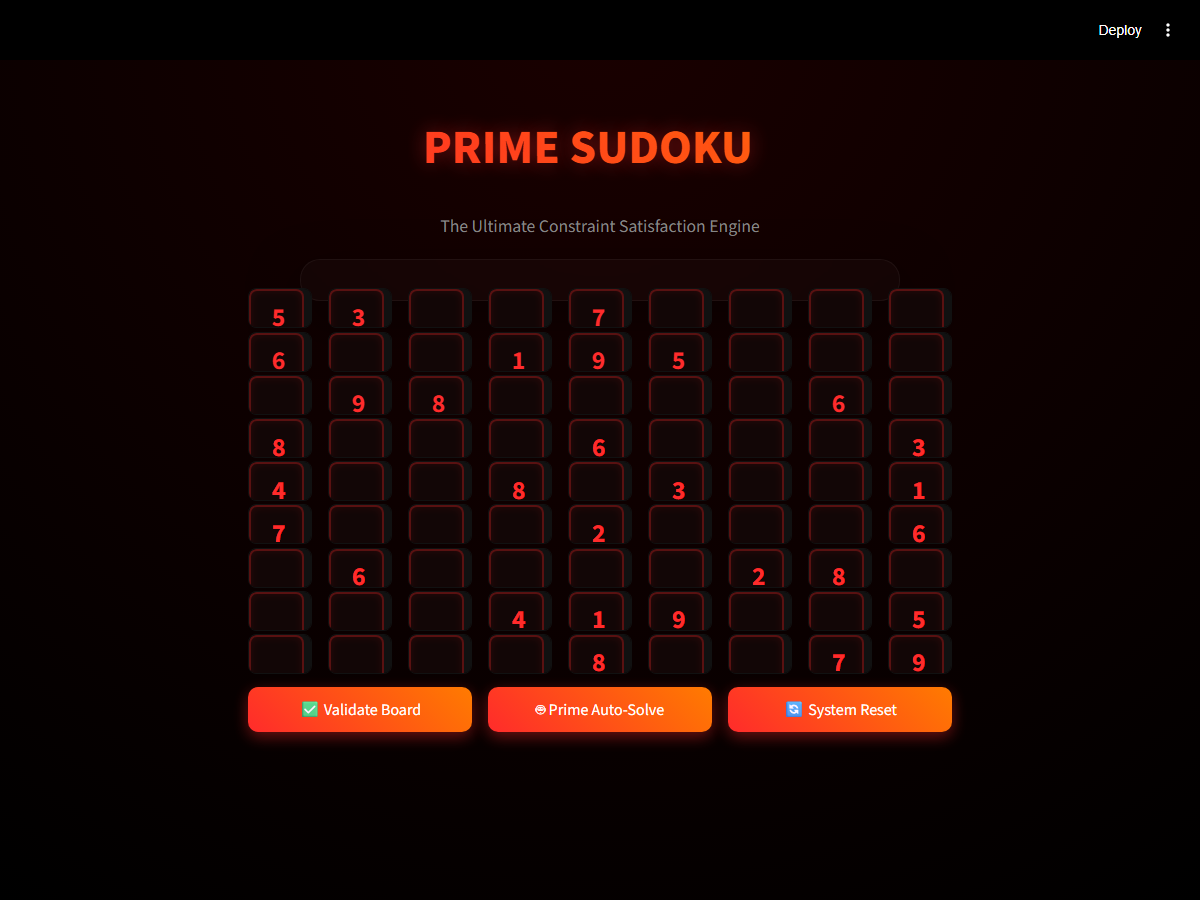
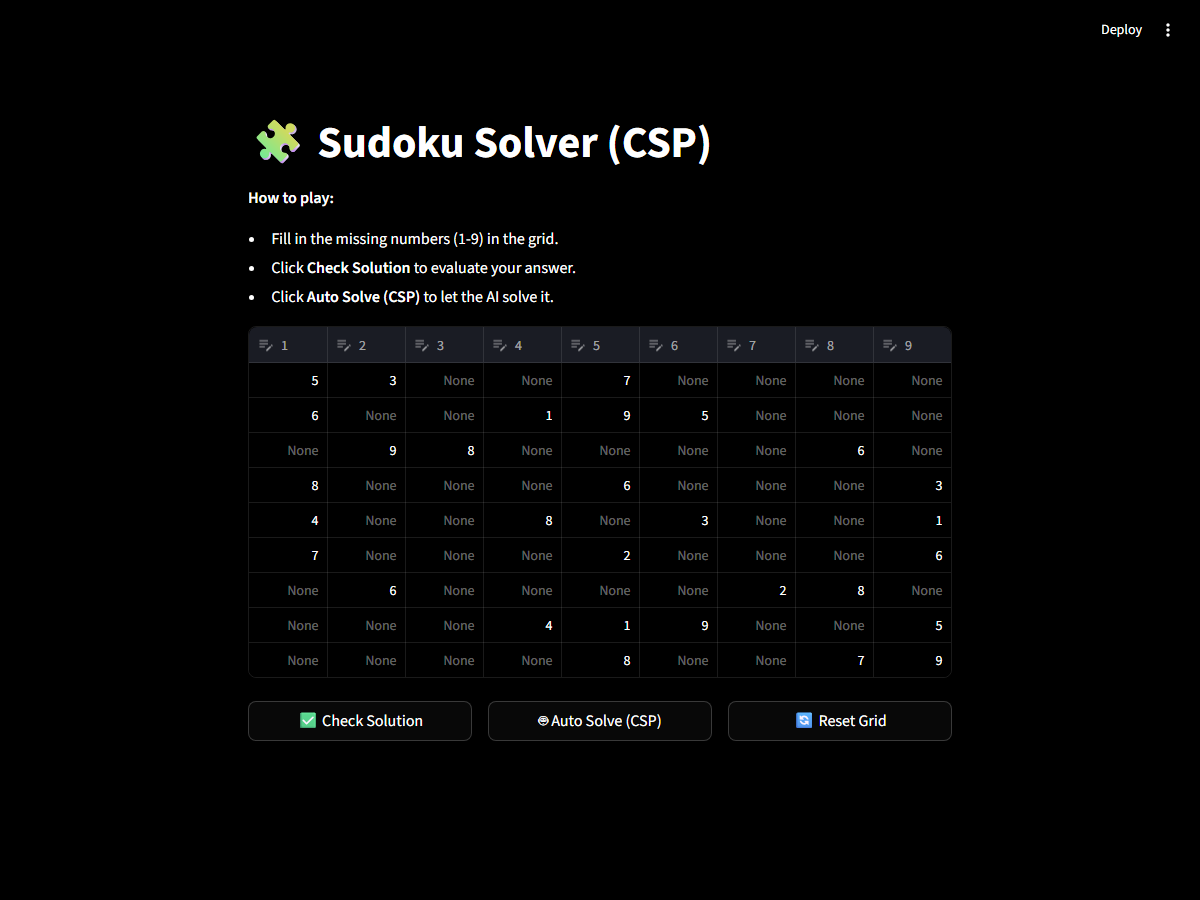
Revert Sudoku UI to simplified data editor format

diff --git a/sudoku.py b/sudoku.py
@@ -3,13 +3,10 @@ import pandas as pd
 import copy
 
 def is_valid(grid, r, c, k):
-    # Check row
     for i in range(9):
         if grid[r][i] == k: return False
-    # Check column
     for i in range(9):
         if grid[i][c] == k: return False
-    # Check 3x3 box
     box_r = r // 3 * 3
     box_c = c // 3 * 3
     for i in range(3):
@@ -31,7 +28,6 @@ def solve_sudoku(grid):
     return True
 
 def check_solution(grid):
-    # Check if there are any empty cells
     for r in range(9):
         for c in range(9):
             if grid[r][c] == 0:
@@ -39,187 +35,66 @@ def check_solution(grid):
             if grid[r][c] < 1 or grid[r][c] > 9:
                 return False, "Only numbers 1-9 are allowed!"
                 
-    # Check validity
     for r in range(9):
         for c in range(9):
             val = grid[r][c]
-            grid[r][c] = 0 # temporarily remove
+            grid[r][c] = 0
             if not is_valid(grid, r, c, val):
                 grid[r][c] = val
                 return False, "Try again. Constraints violated!"
             grid[r][c] = val
     return True, "You won!"
 
-st.set_page_config(page_title="Prime Sudoku", layout="centered", page_icon="🧩")
+st.set_page_config(page_title="Sudoku Solver", layout="centered", page_icon="🧩")
+st.title("🧩 Sudoku Solver (CSP)")
 
-# === PREMIUM CSS INJECTION ===
 st.markdown("""
-<style>
-    /* Global Background and Fonts */
-    .stApp {
-        background: radial-gradient(circle at top, #1a0000, #000000);
-        color: #ffffff;
-        font-family: 'Inter', sans-serif;
-    }
-    
-    /* Title Styling */
-    h1 {
-        text-align: center;
-        font-size: 3rem !important;
-        font-weight: 800 !important;
-        background: -webkit-linear-gradient(45deg, #FF2B2B, #ff7b00);
-        -webkit-background-clip: text;
-        -webkit-text-fill-color: transparent;
-        text-shadow: 0px 0px 20px rgba(255, 43, 43, 0.4);
-        margin-bottom: 2rem !important;
-    }
+**How to play:**
+- Fill in the missing numbers (1-9) in the grid.
+- Click **Check Solution** to evaluate your answer.
+- Click **Auto Solve (CSP)** to let the AI solve it.
+""")
 
-    /* Target the container of text inputs */
-    div[data-testid="stVerticalBlock"] {
-        gap: 0.2rem !important;
-    }
-    div[data-testid="column"] {
-        padding: 0 !important;
-        display: flex;
-        justify-content: center;
-    }
-    
-    /* Style the Text Inputs to look like Sudoku cells */
-    div[data-testid="stTextInput"] {
-        width: 100%;
-        margin: 0 !important;
-        padding: 0 !important;
-    }
-    div[data-testid="stTextInput"] label {
-        display: none !important; /* Hide labels */
-    }
-    div[data-testid="stTextInput"] input {
-        width: 55px !important;
-        height: 55px !important;
-        font-size: 26px !important;
-        font-weight: bold !important;
-        text-align: center !important;
-        border-radius: 8px !important;
-        border: 2px solid rgba(255, 43, 43, 0.3) !important;
-        background: rgba(20, 0, 0, 0.6) !important;
-        color: #FF2B2B !important;
-        box-shadow: inset 0 0 10px rgba(255,43,43,0.1);
-        transition: all 0.3s ease !important;
-        caret-color: transparent !important;
-    }
-    
-    /* Hover & Focus Micro-Animations */
-    div[data-testid="stTextInput"] input:hover {
-        border-color: #FF2B2B !important;
-        box-shadow: 0 0 15px rgba(255, 43, 43, 0.5), inset 0 0 10px rgba(255, 43, 43, 0.2);
-        transform: scale(1.05);
-        z-index: 10;
-    }
-    div[data-testid="stTextInput"] input:focus {
-        border-color: #ff7b00 !important;
-        color: #ff7b00 !important;
-        box-shadow: 0 0 20px rgba(255, 123, 0, 0.8), inset 0 0 15px rgba(255, 123, 0, 0.4) !important;
-        transform: scale(1.1);
-        z-index: 20;
-    }
+if 'initial_puzzle' not in st.session_state:
+    st.session_state.initial_puzzle = [
+        [5, 3, 0, 0, 7, 0, 0, 0, 0],
+        [6, 0, 0, 1, 9, 5, 0, 0, 0],
+        [0, 9, 8, 0, 0, 0, 0, 6, 0],
+        [8, 0, 0, 0, 6, 0, 0, 0, 3],
+        [4, 0, 0, 8, 0, 3, 0, 0, 1],
+        [7, 0, 0, 0, 2, 0, 0, 0, 6],
+        [0, 6, 0, 0, 0, 0, 2, 8, 0],
+        [0, 0, 0, 4, 1, 9, 0, 0, 5],
+        [0, 0, 0, 0, 8, 0, 0, 7, 9]
+    ]
+    st.session_state.current_puzzle = copy.deepcopy(st.session_state.initial_puzzle)
 
-    /* Style the main container holding the grid to give it a glassmorphic card look */
-    .sudoku-board {
-        background: rgba(255, 255, 255, 0.02);
-        backdrop-filter: blur(10px);
-        border-radius: 20px;
-        padding: 20px;
-        border: 1px solid rgba(255, 255, 255, 0.05);
-        box-shadow: 0 20px 50px rgba(0,0,0,0.5);
-        margin: 0 auto;
-        max-width: 600px;
-    }
+def reset_puzzle():
+    st.session_state.current_puzzle = copy.deepcopy(st.session_state.initial_puzzle)
 
-    /* Button Styling */
-    div.stButton > button {
-        background: linear-gradient(45deg, #FF2B2B, #ff7b00) !important;
-        color: white !important;
-        font-weight: bold !important;
-        border: none !important;
-        border-radius: 10px !important;
-        padding: 10px 20px !important;
-        transition: all 0.3s ease !important;
-        box-shadow: 0 5px 15px rgba(255, 43, 43, 0.4) !important;
-    }
-    div.stButton > button:hover {
-        transform: translateY(-2px) !important;
-        box-shadow: 0 8px 20px rgba(255, 43, 43, 0.6) !important;
-    }
-    div.stButton > button:active {
-        transform: translateY(1px) !important;
-    }
-</style>
-""", unsafe_allow_html=True)
+df = pd.DataFrame(st.session_state.current_puzzle)
+df = df.replace(0, None)
+df.columns = [str(i) for i in range(1, 10)]
 
-st.title("PRIME SUDOKU")
+edited_df = st.data_editor(
+    df,
+    use_container_width=True,
+    hide_index=True,
+    num_rows="fixed",
+    key="data_editor"
+)
 
-st.markdown("<p style='text-align: center; color: #888; font-size: 1.1rem; margin-bottom: 2rem;'>The Ultimate Constraint Satisfaction Engine</p>", unsafe_allow_html=True)
+try:
+    current_grid = edited_df.fillna(0).astype(int).values.tolist()
+except ValueError:
+    st.error("Please enter only valid integers.")
+    current_grid = copy.deepcopy(st.session_state.current_puzzle)
 
-initial_puzzle = [
-    [5, 3, 0, 0, 7, 0, 0, 0, 0],
-    [6, 0, 0, 1, 9, 5, 0, 0, 0],
-    [0, 9, 8, 0, 0, 0, 0, 6, 0],
-    [8, 0, 0, 0, 6, 0, 0, 0, 3],
-    [4, 0, 0, 8, 0, 3, 0, 0, 1],
-    [7, 0, 0, 0, 2, 0, 0, 0, 6],
-    [0, 6, 0, 0, 0, 0, 2, 8, 0],
-    [0, 0, 0, 4, 1, 9, 0, 0, 5],
-    [0, 0, 0, 0, 8, 0, 0, 7, 9]
-]
-
-if 'puzzle' not in st.session_state:
-    st.session_state.puzzle = copy.deepcopy(initial_puzzle)
-
-def update_cells_from_puzzle():
-    for r in range(9):
-        for c in range(9):
-            val = st.session_state.puzzle[r][c]
-            st.session_state[f"cell_{r}_{c}"] = str(val) if val != 0 else ""
-
-def update_puzzle_from_cells():
-    for r in range(9):
-        for c in range(9):
-            val = st.session_state.get(f"cell_{r}_{c}", "")
-            if val.isdigit() and 1 <= int(val) <= 9:
-                st.session_state.puzzle[r][c] = int(val)
-            else:
-                st.session_state.puzzle[r][c] = 0
-
-# Initialize session state cells if not present
-if "cell_0_0" not in st.session_state:
-    update_cells_from_puzzle()
-
-st.markdown('<div class="sudoku-board">', unsafe_allow_html=True)
-
-# Render the 9x9 grid
-for r in range(9):
-    cols = st.columns(9)
-    for c in range(9):
-        with cols[c]:
-            st.text_input(
-                label=f"r{r}c{c}", 
-                key=f"cell_{r}_{c}", 
-                max_chars=1,
-                on_change=update_puzzle_from_cells # Sync state on every keypress
-            )
-            
-st.markdown('</div>', unsafe_allow_html=True)
-
-st.write("")
-st.write("")
-
-# Action Buttons
 col1, col2, col3 = st.columns(3)
 
 with col1:
-    if st.button("✅ Validate Board", use_container_width=True):
-        update_puzzle_from_cells()
-        is_won, msg = check_solution(st.session_state.puzzle)
+    if st.button("✅ Check Solution", use_container_width=True):
+        is_won, msg = check_solution(current_grid)
         if is_won:
             st.success(msg)
             st.balloons()
@@ -227,17 +102,15 @@ with col1:
             st.error(msg)
 
 with col2:
-    if st.button("🤖 Prime Auto-Solve", use_container_width=True):
-        grid_copy = copy.deepcopy(initial_puzzle)
+    if st.button("🤖 Auto Solve (CSP)", use_container_width=True):
+        grid_copy = copy.deepcopy(st.session_state.initial_puzzle)
         if solve_sudoku(grid_copy):
-            st.session_state.puzzle = grid_copy
-            update_cells_from_puzzle()
+            st.session_state.current_puzzle = grid_copy
             st.rerun()
         else:
-            st.error("Algorithm failed. No solution exists!")
+            st.error("No solution exists!")
 
 with col3:
-    if st.button("🔄 System Reset", use_container_width=True):
-        st.session_state.puzzle = copy.deepcopy(initial_puzzle)
-        update_cells_from_puzzle()
+    if st.button("🔄 Reset Grid", use_container_width=True):
+        reset_puzzle()
         st.rerun()
